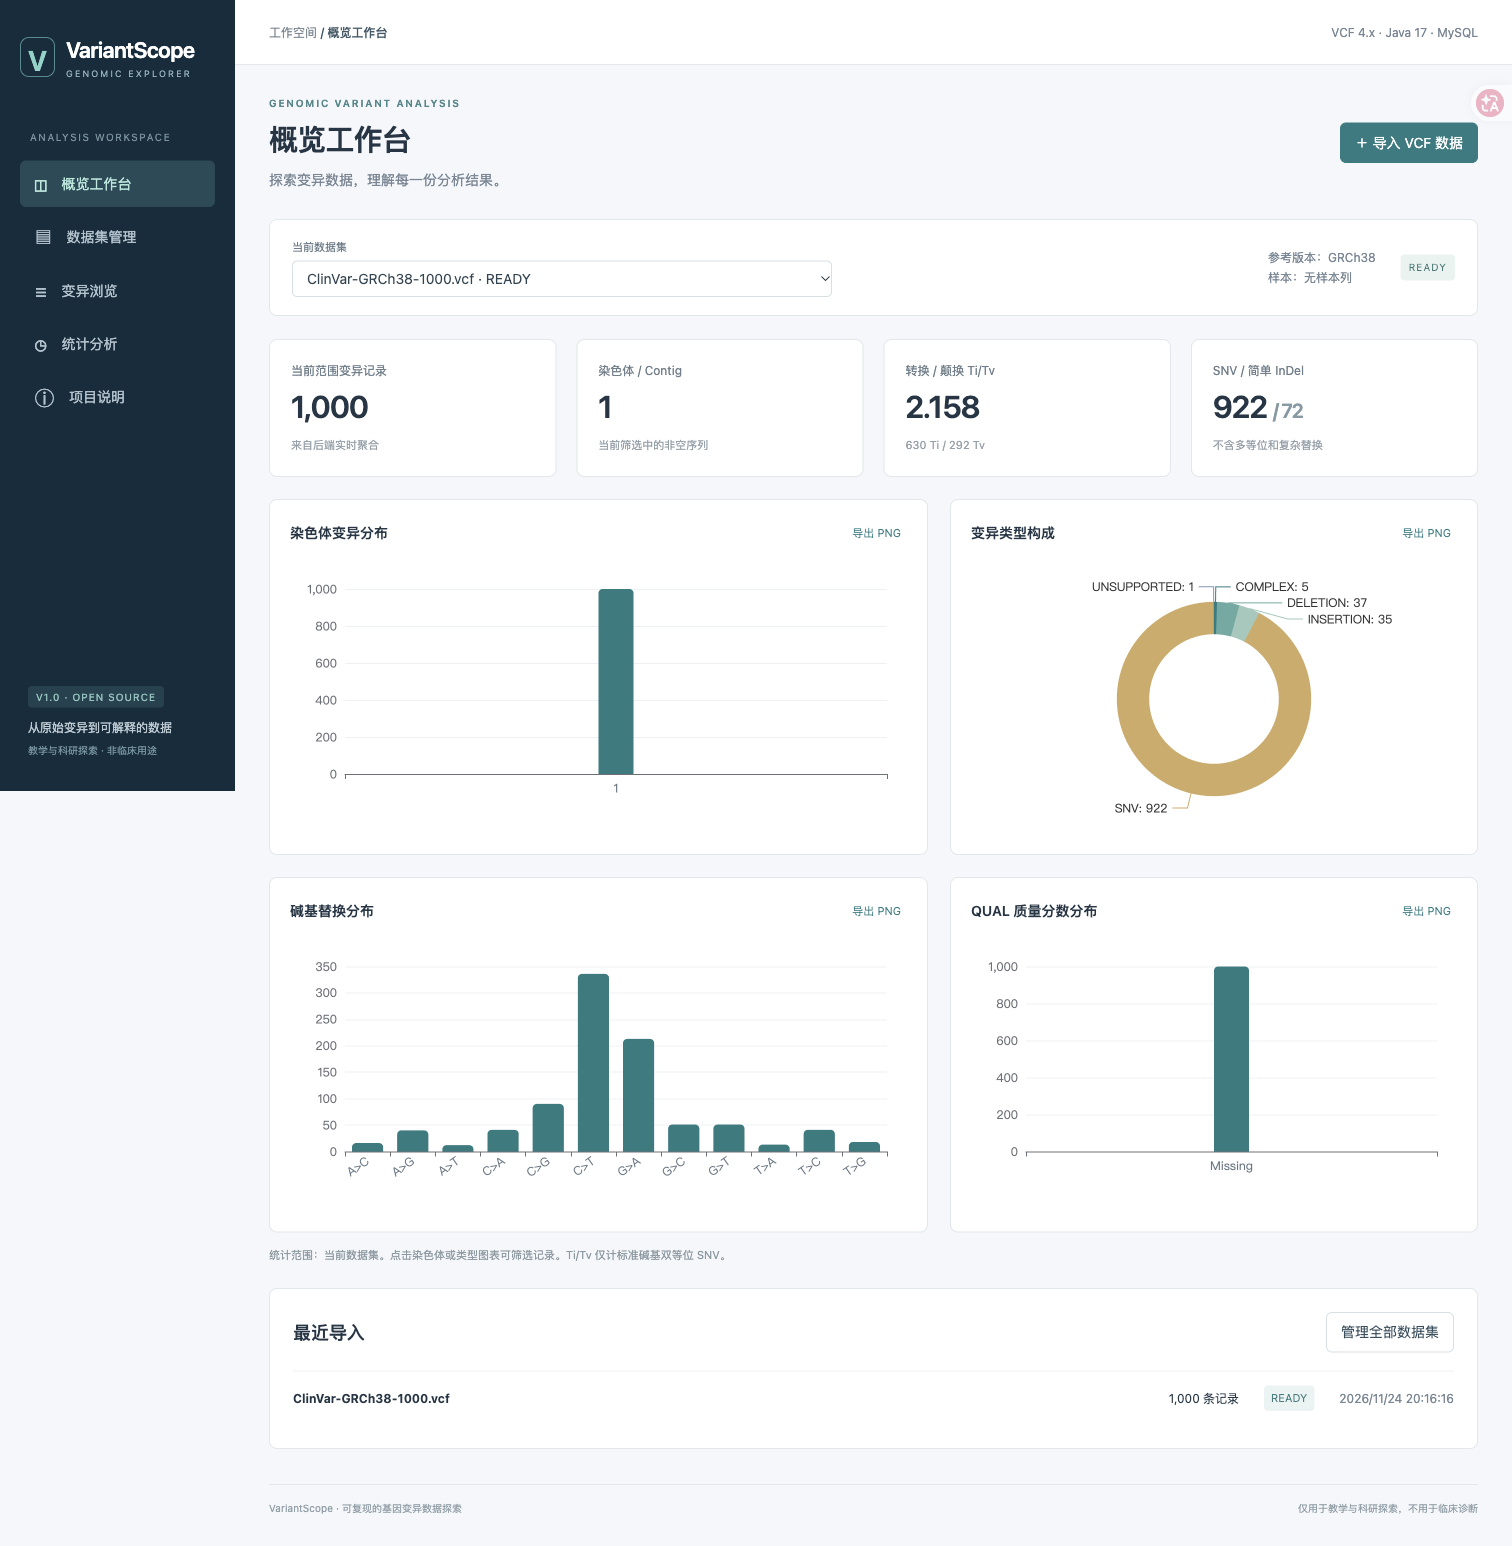
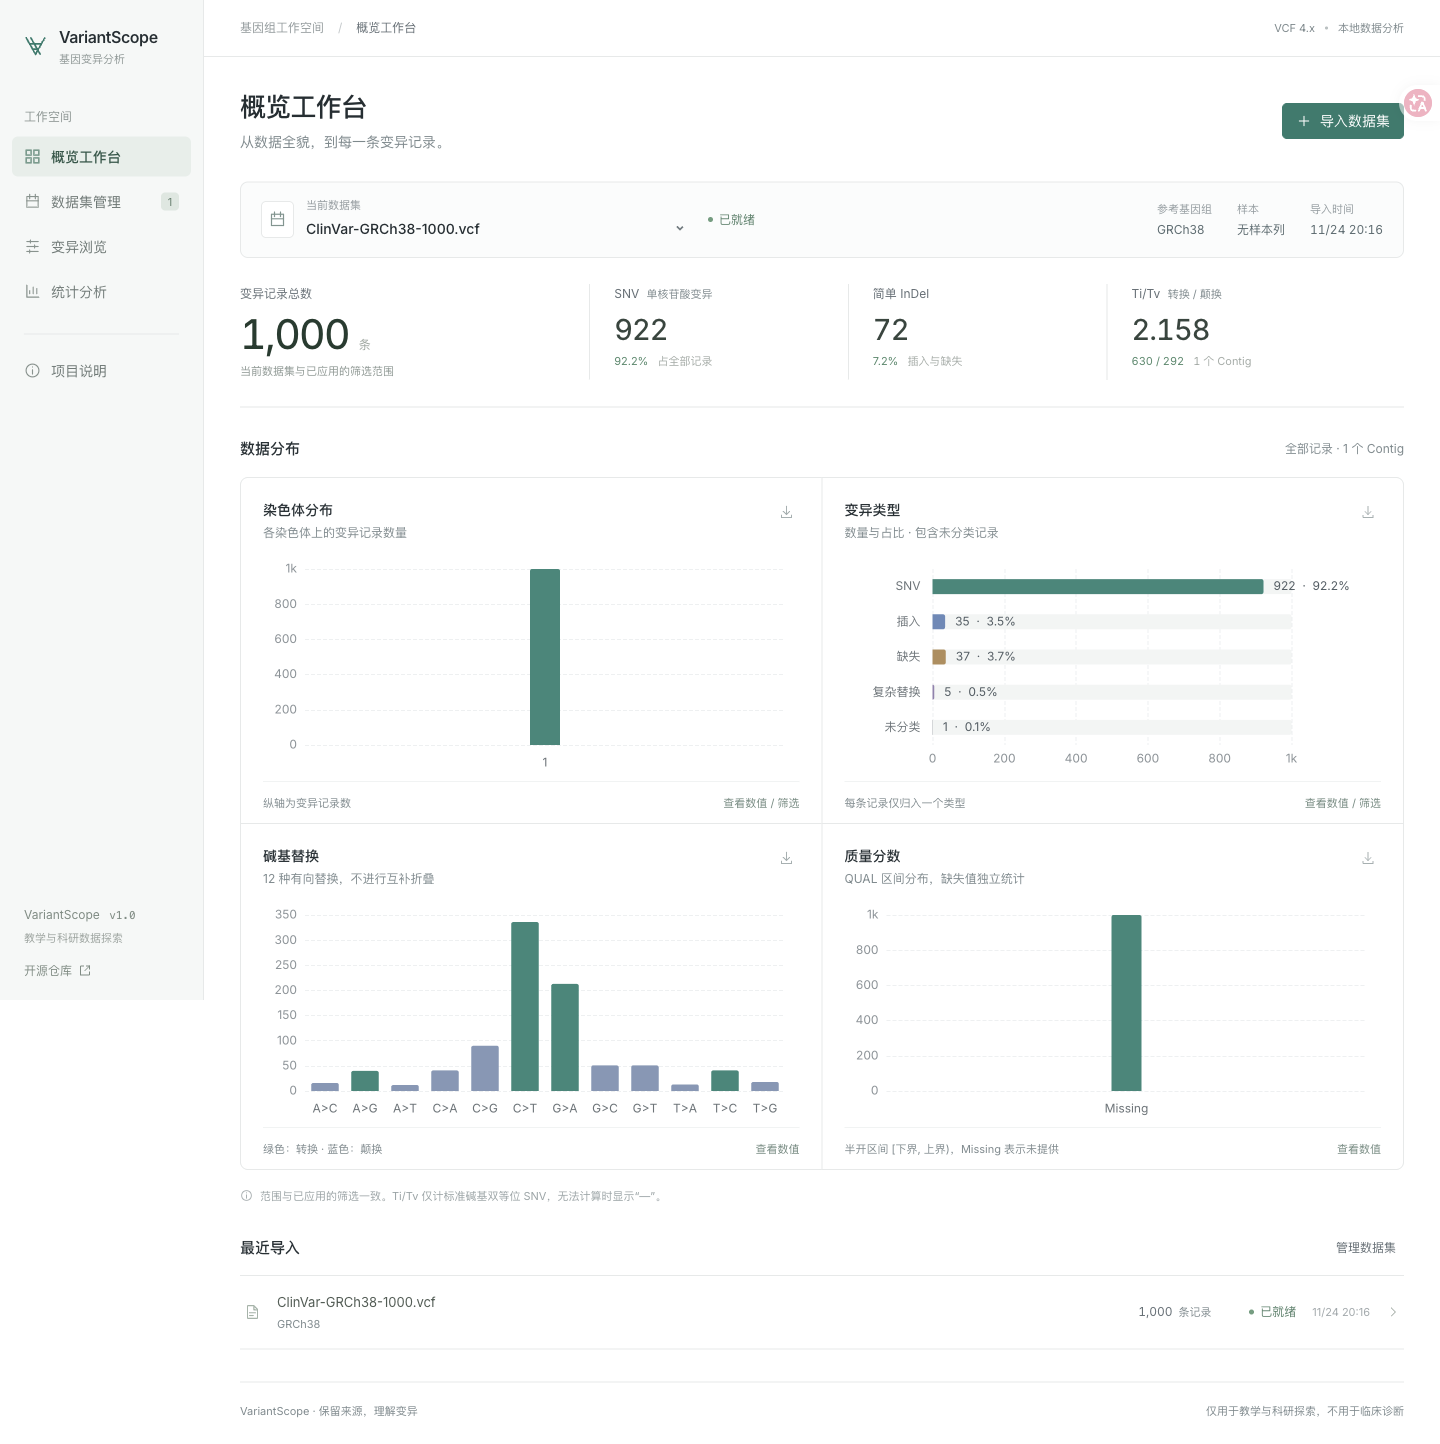
docs(ui): record design system and verified responsive workflows

diff --git a/docs/UI-UX-REFACTOR.md b/docs/UI-UX-REFACTOR.md
@@ -1,0 +1,85 @@
+# VariantScope UI/UX 重构与验收
+
+验收日期：2026-11-25（Asia/Shanghai）。前端在现有 VariantScope 仓库内改造，后端目录没有修改。现有 MySQL 数据、API、VCF 解析与统计口径继续使用。
+
+## 页面与信息架构
+
+- **概览工作台**：当前数据集、参考基因组、样本与导入时间置于上下文栏；以一项主指标和三项辅助指标替代同构 KPI 卡片；分布区使用统一的双列分析网格，最近导入为紧凑列表。
+- **数据集管理**：上传区域明确区分文件选择、可选元数据、进度和提交；可选择或拖入 VCF；右侧说明真实公开示例来源；数据目录统一状态、数值对齐和管理操作。删除使用带焦点管理的原生 dialog。
+- **变异浏览**：筛选草稿与已应用条件分离，明确展示实际查询范围；REF、ALT 独立列，数值使用等宽数字并右对齐，长序列省略但保留 title 与完整详情；固定 FILTER 列宽，表头粘性、表内滚动。详情抽屉区分 VCF 来源与系统计算，展示 GT、INFO 和原始行。
+- **统计分析**：复用同一上下文、筛选与指标组件；六类图表共享字体、色板、坐标网格、悬停和导出规则。拥挤饼图改为横向条形图，依次呈现 SNV、插入、缺失、复杂替换、未分类，显示数量与占比。
+- **项目说明**：用两栏文档布局说明来源、统计口径和适用边界；手机转单列。
+- 原项目没有独立路由库，本次保留轻量导航方式并增加稳定的 `#overview/#datasets/#variants/#analysis/#about` 页面定位，支持刷新定位与浏览器历史，不引入额外路由框架。
+
+## Design System
+
+| 项目 | 规范 |
+|---|---|
+| 字体 | 本地打包 Inter Variable + PingFang SC / Source Han Sans SC；不依赖运行时字体 CDN |
+| 字重 | 正文 400，辅助数据 450，标题 500–550；减少中文粗体 |
+| 数字 | tabular-nums；坐标与等位序列使用 SFMono/Consolas 等宽字体 |
+| 字号 | 页面标题 26px（移动端 23px）；分区标题 14–16px；输入与主操作 14px；表格数据 13px；次级说明 11–12px |
+| 间距 | 4/8/12/16/20/24/32/40px 变量；内容按分析分区组织 |
+| 主色 | #287c6d，生物信息学绿色；文本 #242e33，次级文本 #636e75 |
+| 表面与边框 | 白色内容、#f6f8f7 导航、#e6e9e9 细分隔；不使用渐变、玻璃或厚重投影 |
+| 圆角 | 5/8/10px；仅弹窗和浮层使用轻量阴影 |
+| 导航 | 204px 浅色侧栏，紧凑线性图标、低饱和选中底色；手机为横向滚动导航 |
+| 图表颜色 | SNV 绿色、插入蓝色、缺失土金色、复杂替换紫色、未分类灰色；碱基替换区分转换与颠换 |
+| 动效 | 短暂加载与图表过渡，尊重 prefers-reduced-motion 的界面动画设置 |
+
+图表复用原 ECharts 模块的渲染、ResizeObserver、PNG 导出及点击事件机制，改造排版和主题；没有使用外部产品的品牌组件或图表截图。辅助读取了用户允许的计算机视觉平台 main.css/trends.css，仅参考紧凑的信息组织，没有复制其配色、资产或业务代码。Inter 字体附带 SIL OFL 1.1 许可。
+
+## 组件复用与拆分
+
+`Chart.vue`、原有 API 调用与请求路径继续复用。抽出 `DatasetContext`、`MetricSummary`、`FilterBar`、`VariantTable`、`VariantDetail`、`StatusBadge`、`UiDialog`、`UiIcon` 和 `DatasetManager`，五页共用设计变量与控件。`lib/domain.ts` 提供有类型的数据结构、查询序列化及来源字段显示语义。
+
+此次同时修复：
+
+1. 未提交的筛选直接改变导出链接，导致范围可能与表格不一致。
+2. 数据集切换时筛选条件残留；请求失败保留旧记录；取消选择时较晚返回的请求覆盖新状态。
+3. 非 JSON 上传错误响应未妥善反馈；无效文件替换后仍残留上一个可提交文件。
+4. 移动端 FILTER 列挤压导致行高不必要膨胀；修复后实测行高 45px。
+5. 翻页/排序无须重复计算全量统计；统计保持原查询范围，列表单独请求。
+
+## 实际验证
+
+### 自动化
+
+- `npm run test`：3 个文件、**12 项测试全部通过**。覆盖未应用草稿隔离、导出范围一致、数据集切换、零值/缺失值、GT/INFO 语义、文件校验、上传载荷、错误清理、迟到响应与安全重试。
+- `npm run build`：严格 TypeScript 检查与 Vite 生产构建通过，无大包警告。
+- `npm audit`：**0 项漏洞**。测试工具相关 glob/minimatch 使用修复版本并经测试；生产 ECharts 升级到 6.1.0，已重新验证实际导出和点击交互。
+- 原 `scripts/smoke.py` 在真实 MySQL 8 服务上执行通过，涵盖导入、组合查询、分页、统计、CSV 转义、重新分析、重复拒绝、异常和删除。
+- GitHub Actions 的代码提交 `8359379` 已通过，包含后端原有 11 项测试与新增前端 12 项测试、前端构建。
+
+### 浏览器
+
+使用实际 Vite 开发服务和生产 dist 预览，不注入生产假数据。四个核心页均在 **1440px 桌面**和 **390px 手机宽度**检查完整内容；项目说明也检查桌面与手机。
+
+| 场景 | 实测结果 |
+|---|---|
+| 四页手机横向范围 | documentElement.scrollWidth=390，无页面级横向溢出；表格在自身容器内横向滚动 |
+| 桌面分析页 | innerWidth=scrollWidth=1440；六图正常，无接口错误 |
+| 字体 | document.fonts.check 检查 Inter Variable 返回 true |
+| 筛选草稿 | 编辑染色体时导出链接保持原已应用范围，显示“有未应用的修改” |
+| SNV 筛选 | ClinVar 实际返回 922 条，CSV 实际下载并核验 922 行 |
+| 图表 | 实际悬停、点击 SNV 条联动到相同范围；PNG 下载成功 |
+| 分页 | 第 2 页显示 26–50 / 922，第一条位置为 917,887 |
+| 详情 | 打开 1:69134，原始 INFO 和缺失 GT 正确展示；Escape 关闭后焦点回到原坐标按钮 |
+| 单样本导入 | 上传明确标记合成的边界 VCF，成功导入 8 行，显示 SYNTHETIC 样本与文件提供的合成参考名 |
+| 重新分析与删除 | 六图展示正常，原生弹窗可取消；确认后仅清理本次创建的样例，保留原 ClinVar 数据集 |
+| 重复导入 | 返回“相同文件已经导入”，界面提供清晰错误与刷新入口 |
+| 空结果 | ClinVar 缺失 QUAL，minQual=0 实际返回 0 条，展示空状态，不伪造数据 |
+
+桌面最终截图位于 `docs/screenshots/`。手机、悬停和导出检查图为临时测试产物，留在工作目录，不作为科研图表交付。验收时发现开发服务器热更新后旧页面残留请求失败，完整重载并重新执行检查后通过；没有把失败轮次计为通过。
+
+## 加载优化
+
+原重构构建中单入口约 641 KB。最终主入口 **112.11 KB / gzip 43.57 KB**，Chart 组件 4.63 KB，图表模块 352.57 KB，渲染引擎 176.61 KB。图表按需加载并独立缓存，数据集页不强制加载图表。这里只报告产物大小和实际分包加载；没有把分包解释为总体 JS 同比例减少，也没有虚构首屏时间指标。
+
+## 保留的限制
+
+- 手机复杂科学表格仍需在表格内部横向滚动；不把九列压成难读的卡片。
+- PNG 导出继续导出图形区域，图表标题与来源说明仍在界面展示；未新增 SVG 导出。
+- 浏览器检查基于本机 Chromium 的桌面与手机视口模拟，没有声称覆盖真实 iOS Safari/Android 设备或全套无障碍审计。
+- 原后端的单样本、100 MB/100 万行、多等位/结构变异标记、无临床推断等边界均保留；没有新增统计缓存或改变数据库。
+- 字体许可及依赖已随源码记录。原项目 V1.0 的历史性能报告仍保留，不能将其解释为本次重新执行的后端性能测试。

diff --git a/README.md b/README.md
@@ -23,6 +23,12 @@
 
 ![变异浏览](docs/screenshots/browser.png)
 
+![数据集管理](docs/screenshots/datasets.png)
+
+![统计分析](docs/screenshots/analysis.png)
+
+前端 UI/UX 已统一重构，设计系统、组件结构、桌面/手机实测及已知限制见 [UI/UX 重构验收](docs/UI-UX-REFACTOR.md)。
+
 ## 快速运行
 
 需要 Java 17、Maven 3.9+、Node 22+、npm 和正在运行的 MySQL 8。
@@ -111,7 +117,7 @@ docs/                    API、实测记录、真实截图
 
 ```bash
 mvn -f backend/pom.xml verify
-cd frontend && npm ci && npm run build
+cd frontend && npm ci && npm run test && npm run build
 # 在已启动后端、真实 MySQL 环境中，从仓库根目录运行：
 python3 scripts/smoke.py
 python3 scripts/benchmark.py --records 100000 --pid <后端Java进程PID> --output benchmark.json
